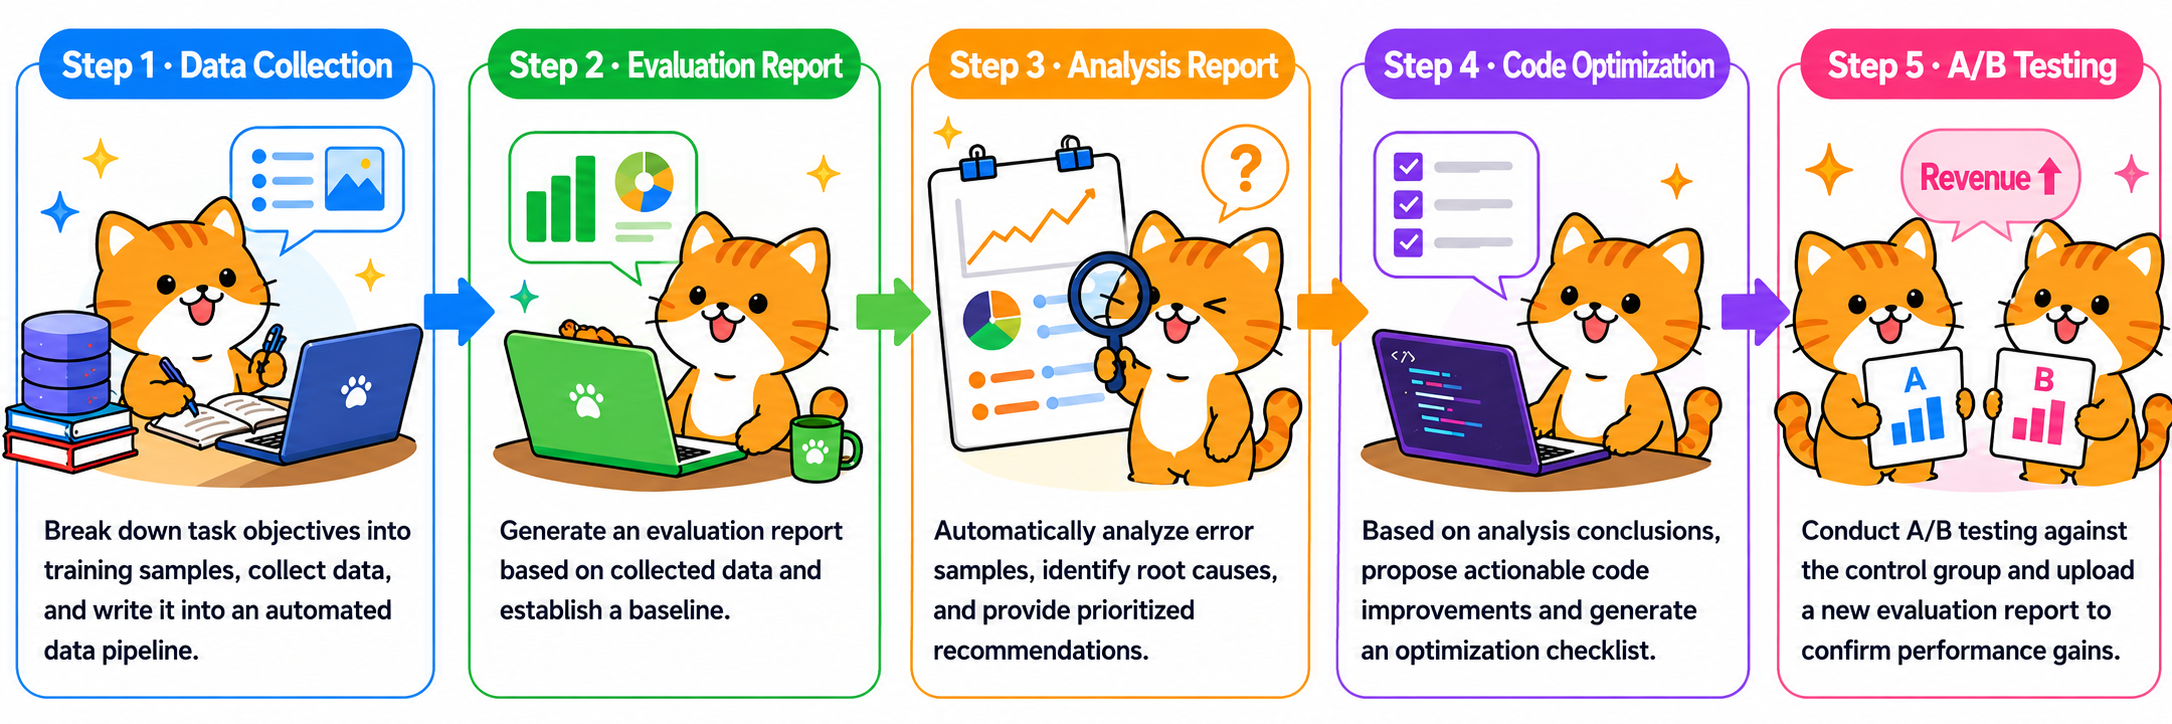
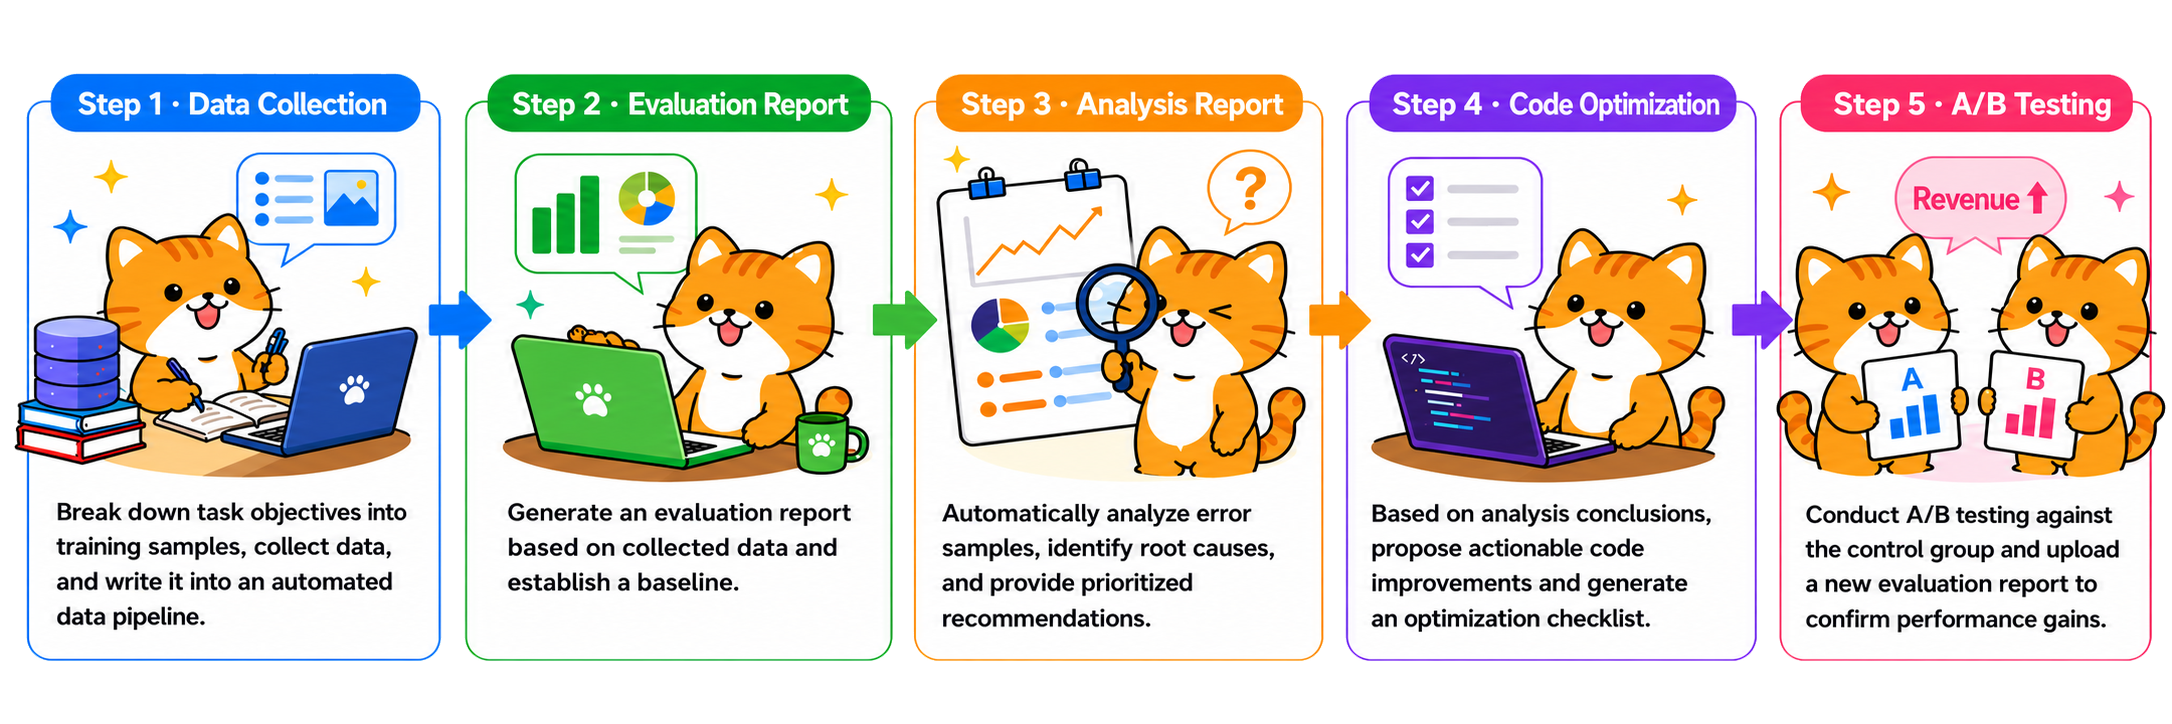
feat(i18n): update localization for English and Chinese, add new labels for affected blocks and question types
- Enhanced localization files for English and Chinese to include new labels for affected blocks and question types.
- Updated ResourceVersionDrawer to improve icon handling and tree structure.
- Adjusted styles in selfEvolution module for better layout and responsiveness.
- Introduced utility functions for retrieving localized labels for question types and affected blocks.

diff --git a/frontend/src/modules/selfEvolution/hooks/useSelfEvolutionPageController.tsx b/frontend/src/modules/selfEvolution/hooks/useSelfEvolutionPageController.tsx
@@ -97,6 +97,8 @@ import {
   AbTopDiffRow,
   AbSummaryReport,
   getPxMetricMeta,
+  getEvalQuestionTypeLabel,
+  getAffectedBlockLabel,
   getKnowledgeBaseName,
   getCatalogApiErrorMessage,
   isCanceledRequest,
@@ -1001,15 +1003,22 @@ export function SelfEvolutionPageController({
     [workflowResults["analysis-reports"].data],
   );
   const analysisActionableCaseRows = useMemo<AnalysisActionableCaseRow[]>(
-    () => buildAnalysisActionableCaseRows(analysisSummaryContent),
-    [analysisSummaryContent],
+    () =>
+      buildAnalysisActionableCaseRows(analysisSummaryContent).map((item) => ({
+        ...item,
+        affectedBlock: getAffectedBlockLabel(item.affectedBlock),
+      })),
+    [analysisSummaryContent, t],
   );
   const affectedBlockCountRows = useMemo(
     () =>
       buildAffectedBlockCountRows(
         analysisSummaryContent,
         t("selfEvolutionRun.uncategorized"),
-      ),
+      ).map((item) => ({
+        ...item,
+        category: getAffectedBlockLabel(item.category),
+      })),
     [analysisSummaryContent, t],
   );
   const analysisReportData = useMemo(() => {
@@ -4839,14 +4848,16 @@ export function SelfEvolutionPageController({
                 </span>
               ))}
             </div>
-            {evalReportQuestionTypeSummaries.map((summary) => (
-              <div
-                key={summary.questionType}
-                className="self-evolution-px-heatmap-row"
-                role="row"
-              >
-                <span role="rowheader">
-                  <strong>{summary.questionType.replace(/_/g, " ")}</strong>
+            {evalReportQuestionTypeSummaries.map((summary) => {
+              const questionTypeLabel = getEvalQuestionTypeLabel(summary.questionType);
+              return (
+                <div
+                  key={summary.questionType}
+                  className="self-evolution-px-heatmap-row"
+                  role="row"
+                >
+                  <span role="rowheader">
+                    <strong>{questionTypeLabel}</strong>
                   <small>
                     {t("selfEvolutionRun.scoredCaseCount", {
                       scored: summary.scoredCaseCount,
@@ -4862,14 +4873,15 @@ export function SelfEvolutionPageController({
                       role="cell"
                       className="self-evolution-px-heatmap-cell"
                       style={getEvalMetricTone(value)}
-                      title={`${summary.questionType} ${metric.label}: ${formatPercent(value)}`}
+                      title={`${questionTypeLabel} ${metric.label}: ${formatPercent(value)}`}
                     >
                       {formatPercent(value)}
                     </span>
                   );
                 })}
-              </div>
-            ))}
+                </div>
+              );
+            })}
           </div>
         </div>
       </section>

diff --git a/frontend/src/modules/selfEvolution/index.scss b/frontend/src/modules/selfEvolution/index.scss
@@ -137,6 +137,7 @@
   width: 100%;
   min-height: 0;
   height: 100%;
+  overflow-y: auto;
   display: flex;
   flex-direction: column;
   gap: clamp(10px, 1.15vh, 14px);
@@ -252,7 +253,7 @@
 .self-evolution-chatlike-launchpad-content {
   display: flex;
   flex-direction: column;
-  flex: 0 1 auto;
+  flex: 0 0 auto;
   gap: clamp(8px, 1.1vh, 12px);
   margin-top: 0;
   padding: clamp(10px, 1.25vh, 14px);
@@ -401,6 +402,7 @@
 
 .self-evolution-launch-compact-meta {
   display: flex;
+  flex: 1 1 auto;
   align-items: center;
   gap: 8px;
 }
@@ -5628,8 +5630,8 @@
   }
 
   .self-evolution-workbench-chat-feed.is-ended {
-    display: flex;
-    flex-direction: column;
+    display: grid;
+    grid-template-rows: auto minmax(0, 1fr);
   }
 
   .self-evolution-workbench-chat-feed.is-collapsible,
@@ -5641,6 +5643,9 @@
   .self-evolution-workbench-chat-feed.is-collapsible .self-evolution-workbench-tab-body,
   .self-evolution-workbench-chat-feed.is-collapsible.is-open .self-evolution-workbench-tab-body,
   .self-evolution-workbench-chat-feed.is-ended .self-evolution-workbench-tab-body {
+    flex: 0 0 100%;
+    height: 100%;
+    max-height: 100%;
     min-height: 0;
   }
 
@@ -6953,6 +6958,9 @@
   flex: 1;
   min-height: 0;
   overflow: auto;
+  overscroll-behavior: contain;
+  scrollbar-gutter: stable;
+  touch-action: pan-y;
   display: flex;
   flex-direction: column;
   gap: 10px;
@@ -6987,6 +6995,7 @@
 }
 
 .self-evolution-bubble {
+  flex: 0 0 auto;
   max-width: 90%;
   border-radius: 14px;
   padding: 10px 12px;

diff --git a/frontend/src/modules/selfEvolution/shared/i18n.ts b/frontend/src/modules/selfEvolution/shared/i18n.ts
@@ -133,3 +133,23 @@ export function getQuestionTypeLabelMap(): Record<number, string> {
     5: t("selfEvolutionRun.qtCode"),
   };
 }
+
+export function getEvalQuestionTypeLabel(questionType: string): string {
+  const normalized = questionType.trim().toLowerCase().replace(/[\s-]+/g, "_");
+  const labels: Record<string, string> = {
+    single_hop: t("selfEvolutionRun.qtSingleHop"),
+    single_doc_multi_hop: t("selfEvolutionRun.qtSingleDocMultiHop"),
+    multi_doc_multi_hop: t("selfEvolutionRun.qtMultiDocMultiHop"),
+    table_list: t("selfEvolutionRun.qtTableList"),
+  };
+  return labels[normalized] || questionType.replace(/_/g, " ");
+}
+
+export function getAffectedBlockLabel(affectedBlock: string): string {
+  const labels: Record<string, string> = {
+    retrieval: t("selfEvolutionRun.affectedBlockRetrieval"),
+    tracing_observability: t("selfEvolutionRun.affectedBlockTracingObservability"),
+    tool_orchestration: t("selfEvolutionRun.affectedBlockToolOrchestration"),
+  };
+  return labels[affectedBlock.trim().toLowerCase()] || affectedBlock.replace(/_/g, " ");
+}

diff --git a/frontend/src/i18n/locales/en-US.ts b/frontend/src/i18n/locales/en-US.ts
@@ -4421,6 +4421,9 @@ const enUS = {
     questionTypeHeatmapAria: "Evaluation metric heatmap by question type",
     questionType: "Question Type",
     scoredCaseCount: "{{scored}} / {{total}} scored",
+    affectedBlockRetrieval: "Retrieval",
+    affectedBlockTracingObservability: "Tracing & observability",
+    affectedBlockToolOrchestration: "Tool orchestration",
     reasonPrimaryBelowTarget: "{{metric}} {{delta}}, below the cutover target (no less than baseline)",
     reasonRegressionExceeds: "Goodcase regression {{ratio}}, not exceeding {{limit}} limit",
     goodcaseRegression: "Goodcase regression",
@@ -4746,6 +4749,9 @@ const enUS = {
     unnamedKnowledgeBase: "Unnamed knowledge base",
     qtSingleHop: "Single-hop QA",
     qtMultiHop: "Multi-hop QA",
+    qtSingleDocMultiHop: "Single-document multi-hop QA",
+    qtMultiDocMultiHop: "Multi-document multi-hop QA",
+    qtTableList: "Table-list QA",
     qtTable: "Table QA",
     qtFormula: "Formula reasoning",
     qtCode: "Code QA",

diff --git a/frontend/src/i18n/locales/zh-CN.ts b/frontend/src/i18n/locales/zh-CN.ts
@@ -4226,6 +4226,9 @@ const zhCN = {
     questionTypeHeatmapAria: "不同题型的评测指标热力图",
     questionType: "题型",
     scoredCaseCount: "已评分 {{scored}} / {{total}} 条",
+    affectedBlockRetrieval: "检索",
+    affectedBlockTracingObservability: "链路追踪与可观测性",
+    affectedBlockToolOrchestration: "工具编排",
     reasonPrimaryBelowTarget: "{{metric}} {{delta}}，未达到不低于基线的切流目标",
     reasonRegressionExceeds: "好用例回退 {{ratio}}，未超过 {{limit}} 上限",
     goodcaseRegression: "好用例回退",
@@ -4551,6 +4554,9 @@ const zhCN = {
     unnamedKnowledgeBase: "未命名知识库",
     qtSingleHop: "单跳问答",
     qtMultiHop: "多跳问答",
+    qtSingleDocMultiHop: "单文档多跳问答",
+    qtMultiDocMultiHop: "多文档多跳问答",
+    qtTableList: "表格列表问答",
     qtTable: "表格问答",
     qtFormula: "公式推理",
     qtCode: "代码问答",

diff --git a/frontend/src/modules/memory/components/ResourceVersionDrawer.tsx b/frontend/src/modules/memory/components/ResourceVersionDrawer.tsx
@@ -13,7 +13,12 @@ import {
   Tree,
   message,
 } from "antd";
-import { FileSearchOutlined, RollbackOutlined } from "@ant-design/icons";
+import {
+  FileOutlined,
+  FileSearchOutlined,
+  FolderOutlined,
+  RollbackOutlined,
+} from "@ant-design/icons";
 import { getLocalizedErrorMessage } from "@/components/request";
 import type { ResourceVersionType } from "../resourceVersionApi";
 import {
@@ -88,6 +93,8 @@ const buildRevisionDiffTreeData = (
       const node: MutableNode = {
         key: path,
         children: [],
+        icon: isFile ? <FileOutlined /> : <FolderOutlined />,
+        isLeaf: isFile,
         selectable: isFile,
         title: (
           <span className="memory-skill-tree-node-title">
@@ -284,6 +291,7 @@ function SkillRevisionDiffPanel({
         </div>
         <Tree
           blockNode
+          showIcon
           defaultExpandAll
           treeData={treeData}
           selectedKeys={selectedPath ? [selectedPath] : []}
